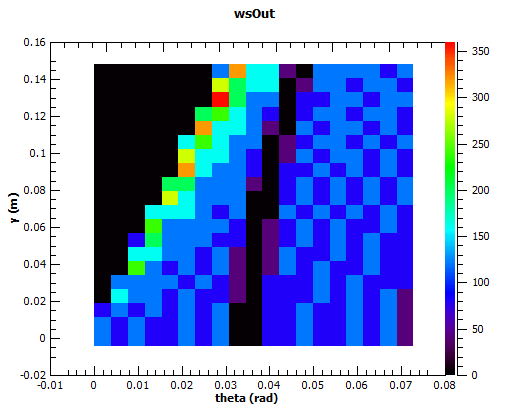
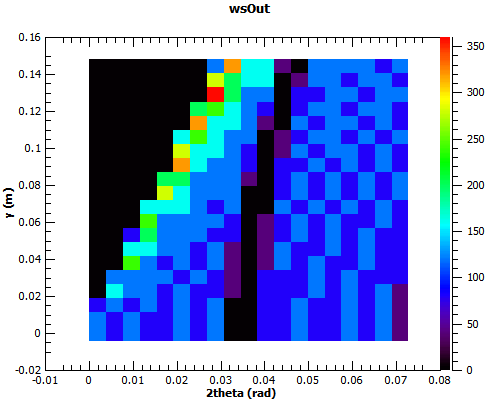
re #10066 documentation updates

diff --git a/Code/Mantid/docs/source/algorithms/ConvertAxesToRealSpace-v1.rst b/Code/Mantid/docs/source/algorithms/ConvertAxesToRealSpace-v1.rst
@@ -33,25 +33,25 @@ As the rebinning approach is simple centre point rebinning then the quality of t
 
 Axes Units
 ##########
-+----------------------+-------------------------------------------------+
-| Name                 | Description                                     |
-+======================+=================================================+
-| x, y ,z              | The absolute position of the detector as defined|
-|                      | in the instrument definintion.                  |
-+----------------------+-------------------------------------------------+
-| r, theta, phi        | The absolute position of the detector in        |
-|                      | spherical coordinate, relative to 0,0,0 as      |
-|                      | defined in the instrument definintion.          |
-+----------------------+-------------------------------------------------+
-| 2theta               | The theta position of the detector relative to  |
-|                      | sample position and the beam direction.         |
-|                      | if the sample is at 0,0,0 and the beam direction|
-|                      | matches, then this will match theta above.      |
-+----------------------+-------------------------------------------------+
-| signed2Theta         | Similar to twotheta, but with a sign calculated |
-|                      | relative to the instrument reference frame, with|
-|                      | the upper quadrants taking the positive value   |
-+----------------------+-------------------------------------------------+
++----------------------+-------+-------------------------------------------------+
+| Name                 | Units | Description                                     |
++======================+=======+=================================================+
+| x, y ,z              |meters | The absolute position of the detector as defined|
+|                      |       | in the instrument definition.                   |
++----------------------+-------+-------------------------------------------------+
+| r                    |meters | The absolute position of the detector in        |
++----------------------+-------+ spherical coordinates, relative to 0,0,0 as     |
+| theta, phi           |degrees| defined in the instrument definition.           |
++----------------------+-------+-------------------------------------------------+
+| 2theta               |radians| The theta position of the detector relative to  |
+|                      |       | sample position and the beam direction.         |
+|                      |       | if the sample is at 0,0,0 and the beam direction|
+|                      |       | matches, then this will match theta above.      |
++----------------------+-------+-------------------------------------------------+
+| signed2Theta         |radians| Similar to 2theta, but with a sign calculated   |
+|                      |       | relative to the instrument reference frame, with|
+|                      |       | the upper quadrants taking the positive value   |
++----------------------+-------+-------------------------------------------------+
 
 
 Usage
